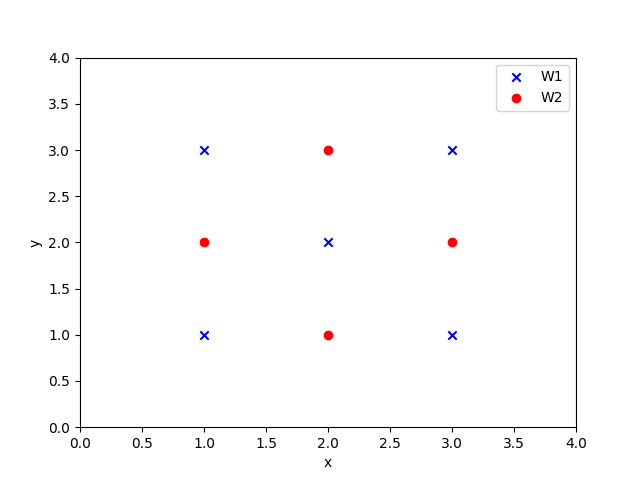
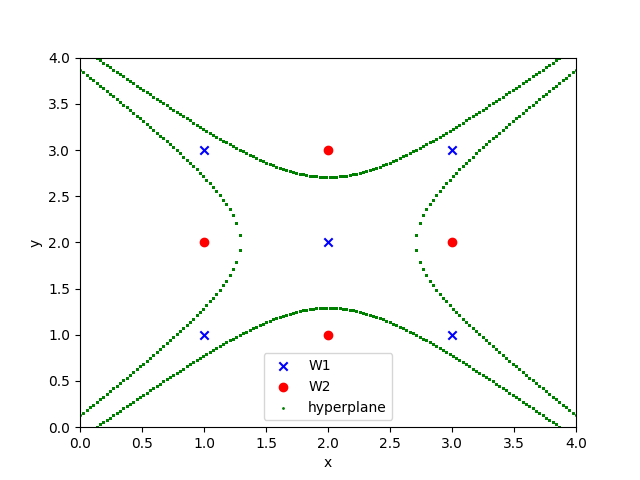
hyperplane

diff --git a/HW3/zhuwy/non-linear-classify.py b/HW3/zhuwy/non-linear-classify.py
@@ -5,19 +5,10 @@ from sklearn.metrics import mean_squared_error
 import matplotlib
 matplotlib.use('AGG')
 import matplotlib.pyplot as plt
+fig = plt.figure()
 
 W1 = np.array([(1,1),(2,2),(3,3),(1,3),(3,1)])
 W2 = np.array([(1,2),(2,1),(2,3),(3,2)])
-fig = plt.figure()
-plt.scatter(W1[:,0],W1[:,1],marker='x',label='W1',c='b')
-plt.scatter(W2[:,0],W2[:,1],marker='o',label='W2',c='r')
-plt.xlim((0, 4))
-plt.ylim((0, 4))
-plt.xlabel('x')
-plt.ylabel('y')
-plt.legend()
-plt.savefig('2d.png')
-plt.clf()
 W = np.vstack((W1,W2))
 x = W[:,0]
 y = W[:,1]
@@ -29,8 +20,8 @@ W = np.concatenate((W,Z),axis=1)
 from mpl_toolkits.mplot3d import Axes3D
 fig = plt.figure()
 ax = Axes3D(fig)
-X = np.linspace(0,4,50)
-Y = np.linspace(0,4,50)
+X = np.linspace(0,4,150)
+Y = np.linspace(0,4,150)
 X, Y = np.meshgrid(X, Y)
 Z = np.full(X.shape,1/2)
 ax.plot_surface(X,Y,Z,color='green',alpha=0.2)
@@ -41,9 +32,33 @@ ax.scatter(W[0:5,0], W[0:5,1], W[0:5,2],c='b',label='W1')
 ax.scatter(W[5:,0], W[5:,1], W[5:,2],c='r',label='W2')
 plt.legend()
 plt.savefig("3d.png")
+plt.clf()
+
+plt.scatter(W1[:,0],W1[:,1],marker='x',label='W1',c='b')
+plt.scatter(W2[:,0],W2[:,1],marker='o',label='W2',c='r')
+plt.xlim((0, 4))
+plt.ylim((0, 4))
+plt.xlabel('x')
+plt.ylabel('y')
+
+half = np.abs(X-2) - np.abs(Y-2)
+X1 = X[np.where(half<=0)]
+Y1 = 2 + np.sqrt(np.power(X1-2,2) + 1/2)
+Y2 = 2 - np.sqrt(np.power(X1-2,2) + 1/2)
+X2 = X[np.where(half<=0)]
+Y3 = 2 + np.sqrt(np.power(X2-2,2) - 1/2)
+Y4 = 2 - np.sqrt(np.power(X2-2,2) - 1/2)
+plt.scatter(X1,Y1,s=1,c='g',label='hyperplane')
+plt.scatter(X1,Y2,s=1,c='g')
+plt.scatter(X2,Y3,s=1,c='g')
+plt.scatter(X2,Y4,s=1,c='g')
+plt.legend()
+plt.savefig('2d.png')
+plt.clf()
+
+
 
 from sklearn.manifold import TSNE
-
 def plot_with_labels(low_dim_embs, labels, filename):   # 绘制词向量图
     plt.figure()  
     for i, label in enumerate(labels):
@@ -69,4 +84,3 @@ tsne = TSNE(n_components=2)
 low_dim_embs = tsne.fit_transform(W)
 labels = ['W1','W1','W1','W1','W1','W2','W2','W2','W2']
 plot_with_labels(low_dim_embs, labels, 'tsne.png')
-
